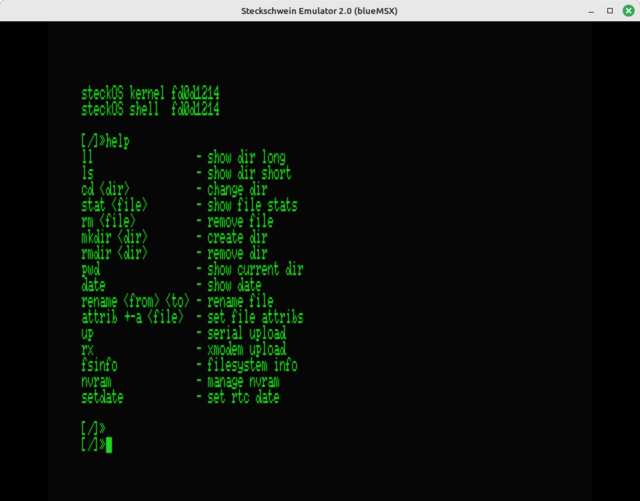
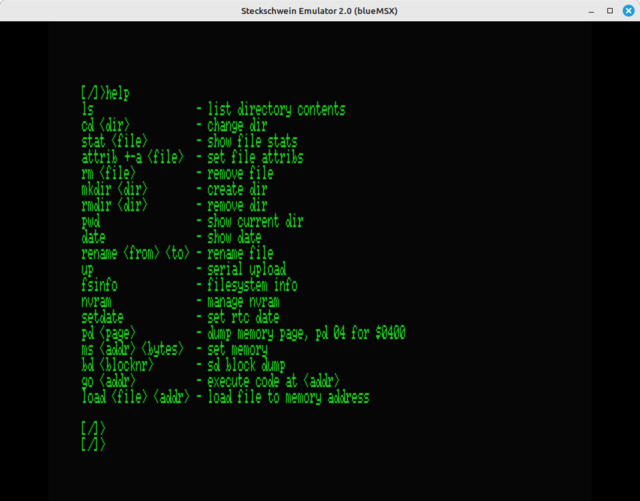
shell internal commands

Changed region(s): [[0.125, 0.1497, 0.6562, 0.8084], [0.1562, 0.8383, 0.1875, 0.9281], [0.9688, 0.0, 1.0, 0.0299]]

diff --git a/content/software/index.md b/content/software/index.md
@@ -93,13 +93,69 @@ The steckOS kernel provides basic interrupt handling, text display routines for 
 Hardware interfacing code and utility routines both used by BIOS and steckOS are located in the library. Examples are utility routines to convert binary to ASCII decimal or hexadecimal, but also the SD card driver and FAT32 file system implementation.
 
 ## shell
-
-The steckShell is a simple REPL interface roughly modeled after the Unix sh shell. The shell only has one builtin command, "cd". Every other command is searched for in the "PATH" and executed. Commands and tools are mostly named after their Unix / DOS counterparts. 
-
-### commands and tools
-
 So what can you do with steckOS? The short answer is - not much. steckOS's primary goal was to be able to navigate the file system and start programs.
-To be able to do this, we had to write (or port) a couple of commands and a few tools, a few of which we want to introduce:
+
+To be able to do this, the first thing needed was a command line interface. The steckShell is a simple REPL interface roughly modeled after the Unix sh shell. The shell also provides commands to inspect and modify memory contents.
+
+### internal commands
+
+The following commands are internally build into the shell executable.
+
+#### pwd, mkdir, rmdir, rm, cls
+
+![steckOS pwd, mkdir, rmdir, rm command output](images/pwd_mkdir_rmdir_rm.png)
+
+These commands do what their Unix/Linux/DOS counterparts do.
+
+#### up
+
+![steckOS up command output](images/up.png)
+
+up jumps to the kernel xmodem upload routine and expects an executable in PRG format to be sent via xmodem.
+
+#### pd
+
+![steckOS pd command output](images/pd.png)
+
+pd (page dump) shows a memory page (256 bytes) or a range of memory pages in hexdump format.
+
+#### ms
+
+![steckOS ms command output](images/ms.png)
+
+ms (memory set) sets the content of a memory address plus the following bytes
+
+#### go
+
+![steckOS go command output](images/go.png)
+
+
+go starts executing code at the given memory location
+
+#### load
+
+![steckOS load command output](images/load.png)
+
+
+load is used to load the contents of a file to a give memory location
+
+#### save
+
+![steckOS save command output](images/save.png)
+
+save is used to save a memory area (from address, to address) to a file
+
+#### bd
+
+![steckOS bd command output](images/bd.png)
+
+bd (block dump) loads a block (512 bytes) from SD card and displays it's contents like pd
+
+
+### external commands and tools
+
+Every other command is searched for in a hard coded "PATH" and executed. Commands and tools are mostly named after their Unix / DOS counterparts. 
+
 
 #### help
 ![steckOS right after boot](images/help.png)
@@ -107,14 +163,16 @@ To be able to do this, we had to write (or port) a couple of commands and a few 
 The "help"-command lists the most important commands.
 
 #### ll
+
 ![steckOS ll command output](images/ll.png)
 
 Like it's Unix/Linux counterpart, ll shows the content of the current directory or the directory specified as command line argument. The output resembles that of DOS's dir command.
 
 #### ls
+
 ![steckOS ls command output](images/ls.png)
 
-Displays directory contents in short form, just like the ls command in Unix/Linux.
+Displays directory contents, like a mix of the DOS "dir" command and the "ls" command in Unix/Linux.
 
 #### stat
 ![steckOS stat command output](images/stat.png)
